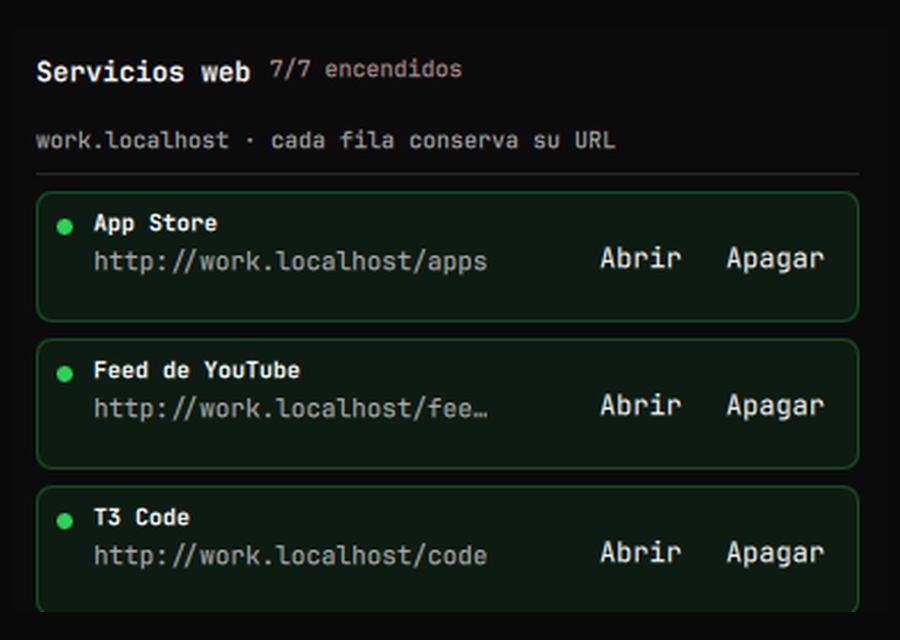
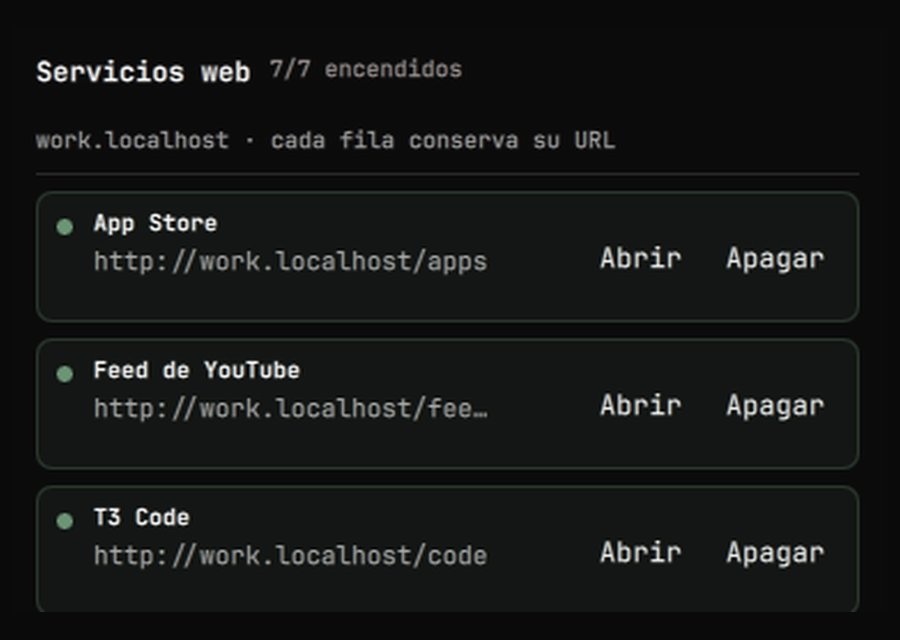
style: paleta consistente en blanco y negro (cursor, fotos y acentos neutros)

diff --git a/portfolio/app/components/Cursor/ExperimentalCursor.tsx b/portfolio/app/components/Cursor/ExperimentalCursor.tsx
@@ -72,16 +72,16 @@ export default function ExperimentalCursor() {
     default: {
       width: 80,
       height: 80,
-      backgroundColor: 'rgba(0, 212, 255, 0.08)',
-      borderColor: 'rgba(0, 212, 255, 0.35)',
+      backgroundColor: 'rgba(255, 255, 255, 0.08)',
+      borderColor: 'rgba(255, 255, 255, 0.35)',
       borderWidth: 1,
       scale: 1,
     },
     'hover-link': {
       width: 120,
       height: 120,
-      backgroundColor: 'rgba(230, 230, 230, 0.10)',
-      borderColor: 'rgba(230, 230, 230, 0.5)',
+      backgroundColor: 'rgba(255, 255, 255, 0.10)',
+      borderColor: 'rgba(255, 255, 255, 0.5)',
       borderWidth: 1.5,
       scale: 1,
     },
@@ -89,15 +89,15 @@ export default function ExperimentalCursor() {
       width: 100,
       height: 100,
       backgroundColor: 'transparent',
-      borderColor: 'rgba(0, 212, 255, 0.7)',
+      borderColor: 'rgba(255, 255, 255, 0.7)',
       borderWidth: 2,
       scale: 1,
     },
     dragging: {
       width: 60,
       height: 60,
-      backgroundColor: 'rgba(230, 230, 230, 0.2)',
-      borderColor: 'rgba(230, 230, 230, 0.6)',
+      backgroundColor: 'rgba(255, 255, 255, 0.2)',
+      borderColor: 'rgba(255, 255, 255, 0.6)',
       borderWidth: 1.5,
       scale: 0.9,
     },
@@ -105,10 +105,10 @@ export default function ExperimentalCursor() {
 
   // Dot styles by state
   const dotVariants = {
-    default: { width: 6, height: 6, backgroundColor: '#00D4FF' },
-    'hover-link': { width: 8, height: 8, backgroundColor: '#E6E6E6' },
-    'hover-image': { width: 4, height: 4, backgroundColor: '#00D4FF' },
-    dragging: { width: 10, height: 10, backgroundColor: '#E6E6E6' },
+    default: { width: 6, height: 6, backgroundColor: '#FFFFFF' },
+    'hover-link': { width: 8, height: 8, backgroundColor: '#FFFFFF' },
+    'hover-image': { width: 4, height: 4, backgroundColor: '#FFFFFF' },
+    dragging: { width: 10, height: 10, backgroundColor: '#FFFFFF' },
   };
 
   if (isTouchDevice) return null;
@@ -119,6 +119,7 @@ export default function ExperimentalCursor() {
       <motion.div
         className="fixed top-0 left-0 pointer-events-none z-[9998] rounded-full border-solid"
         style={{
+          mixBlendMode: 'difference',
           x: circleX,
           y: circleY,
           translateX: '-50%',
@@ -135,6 +136,7 @@ export default function ExperimentalCursor() {
       <motion.div
         className="fixed top-0 left-0 pointer-events-none z-[9999] rounded-full"
         style={{
+          mixBlendMode: 'difference',
           x: dotX,
           y: dotY,
           translateX: '-50%',

diff --git a/portfolio/app/globals.css b/portfolio/app/globals.css
@@ -35,8 +35,8 @@
   --accent-red-rgb: 239, 68, 68;
   --accent-green: #4ADE80;
   --accent-green-rgb: 74, 222, 128;
-  --accent-purple: #A78BFA;
-  --accent-purple-rgb: 167, 139, 250;
+  --accent-purple: #B5B5B5;
+  --accent-purple-rgb: 181, 181, 181;
   --accent-linkedin: #0077B5;
   --accent-linkedin-rgb: 0, 119, 181;
 
